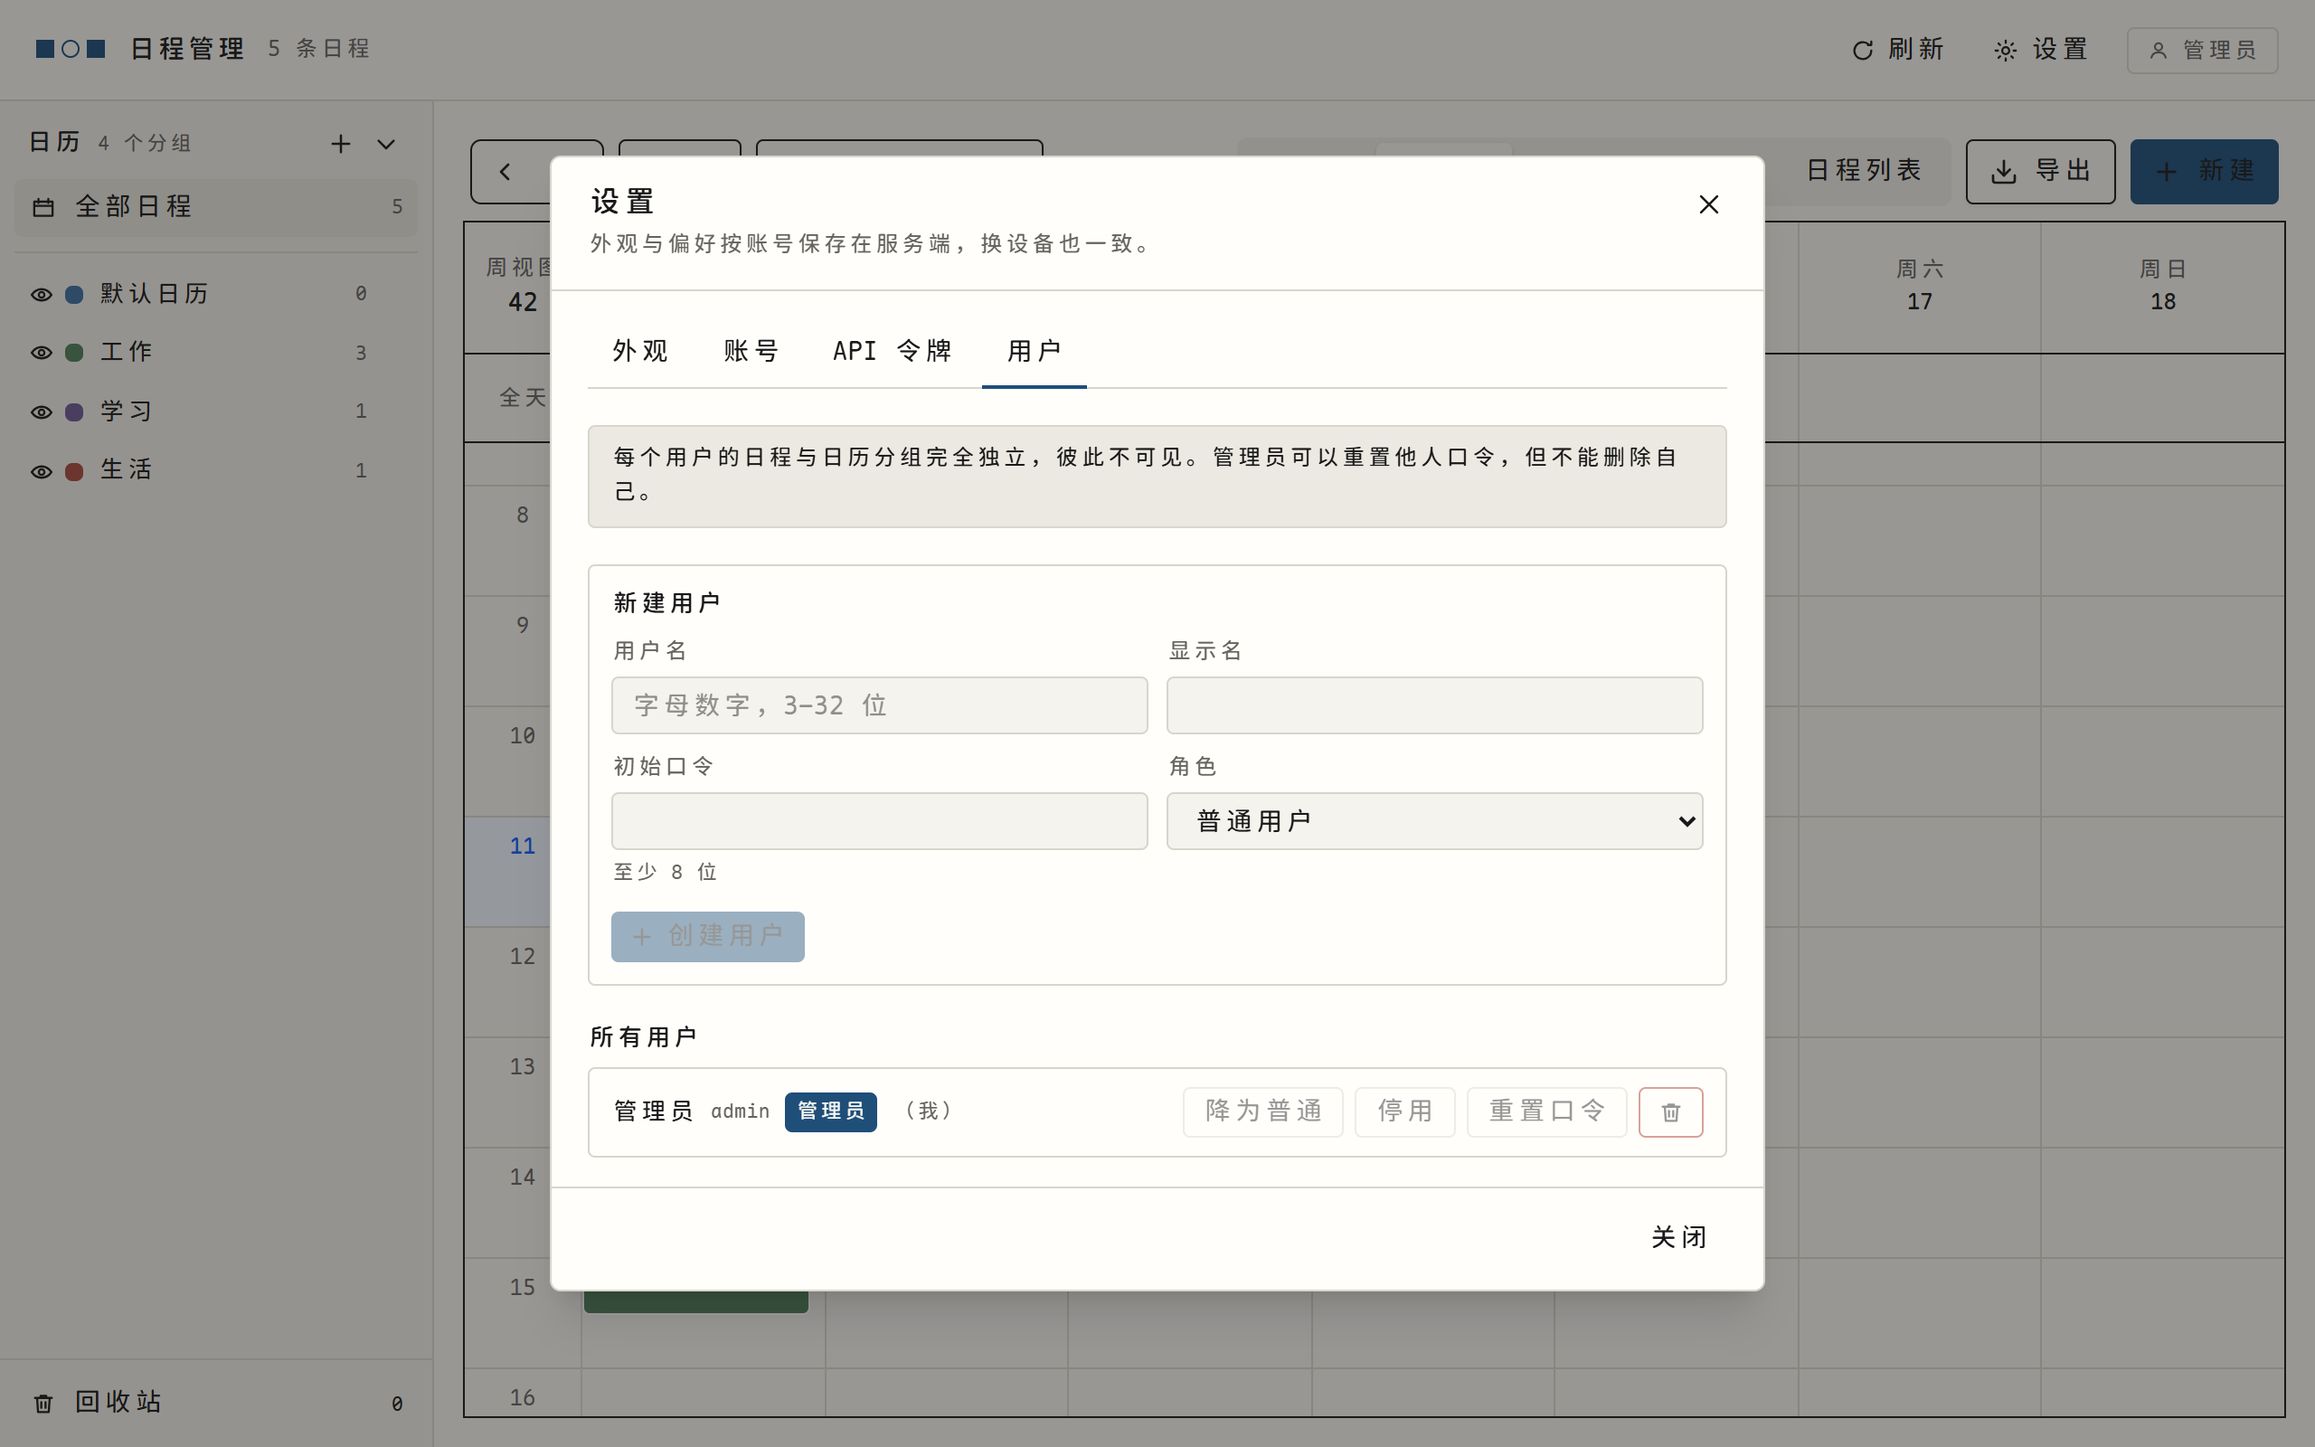
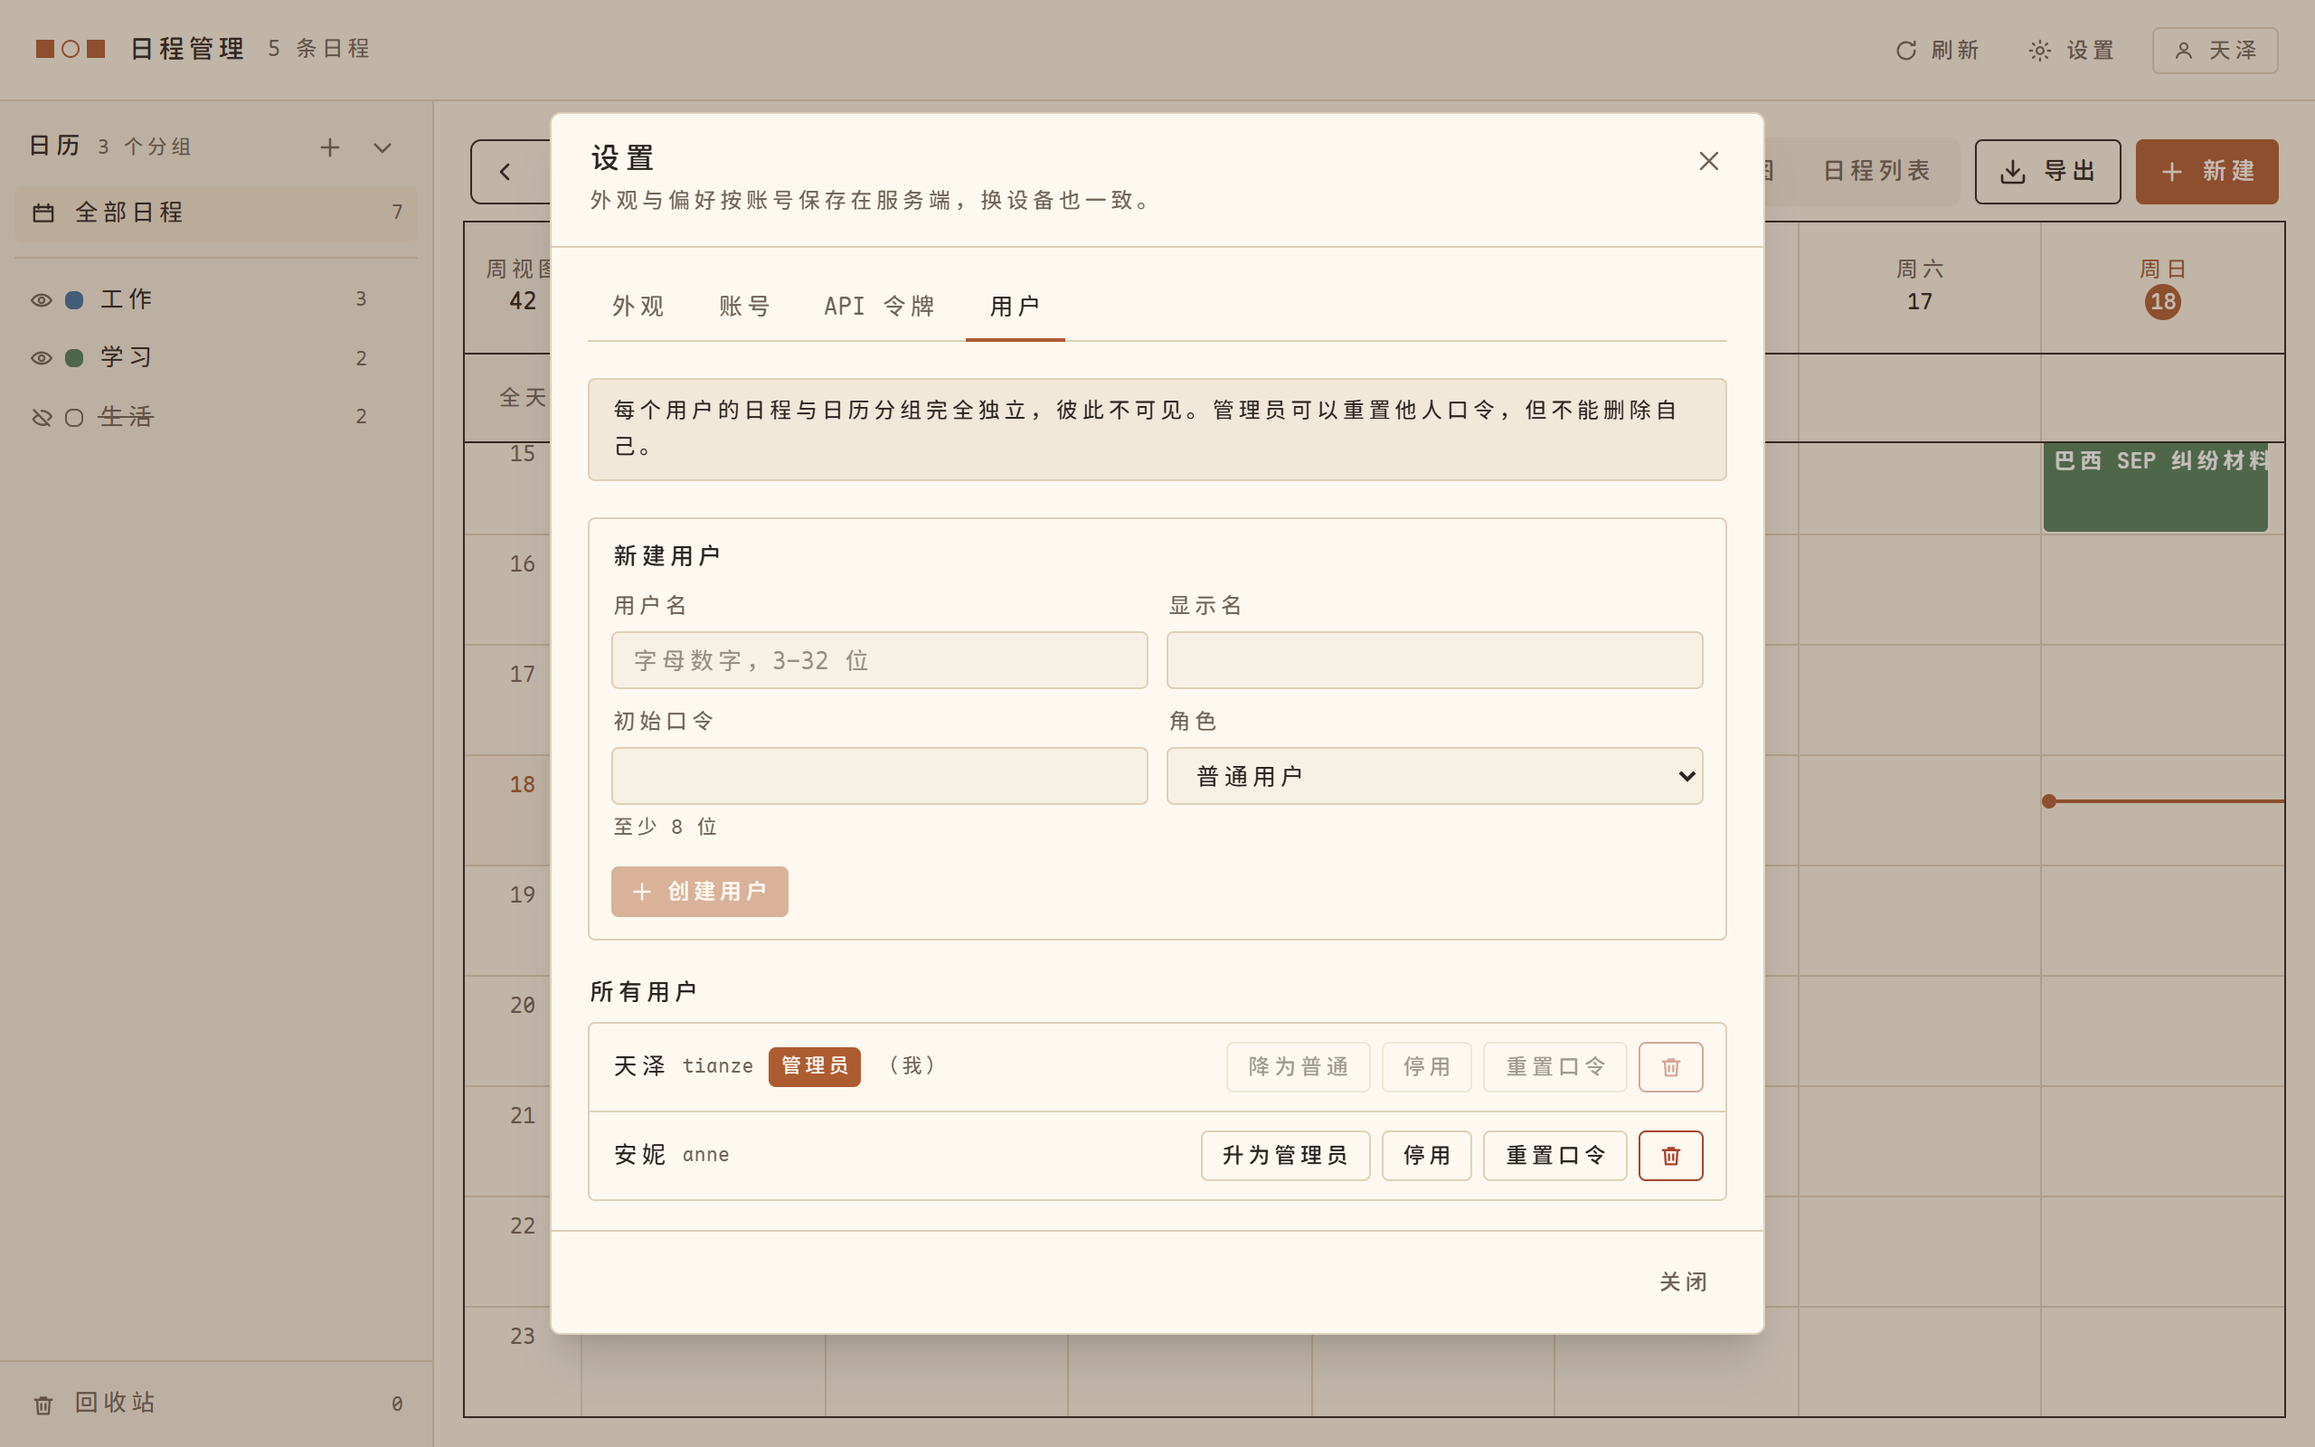
两套主题换成暖色：白日米黄纸，夜间灯下暖光
蓝调整体退掉，白天和夜里都用暖色，但两套的做法不一样——夜里不是白天的反相。

白日（#f7f1e5 + #ad5c30）
- 底色是米黄纸，不是纯白；正文是深暖褐 #2b2420，不是纯黑。纯黑配浅底的对比度
  超过 16:1，长读会有「字在跳」的感觉，压到 13.5:1 更稳。
- 强调色陶土橘 #ad5c30，和 favicon 同源。这一档是算出来的：更浅的 #b4653a
  配白字只有 4.13:1，按钮文字会发虚；#ad5c30 到 4.61:1，刚好过 AA。

夜间（#1a1614 + #d09258）
- 底色深暖褐而不是纯黑：纯黑与米白字的交界太硬，明暗切换时瞳孔要重新适应。
- 正文米白 #e6ddcf 而不是纯白。纯白小字在暗环境里会晕（halation），散光眼尤其明显，
  褪掉那层亮字反而更清楚。
- 强调色琥珀而不是白天的陶土橘：同一个橘压在暗底上又亮又闷，提亮+降饱和之后
  才像灯照在纸上的颜色。
- 次要文字用暖灰，不带蓝——冷灰在暖底上会显出脏。
- 加一层极淡的暖光（radial-gradient，alpha < 0.06），让大面积深褐不至于死板。

组件库的两处冷色
- 「今天」那列写死 bg-blue-50 / text-blue-600，改成主色混卡片底，随主题走。
- 非本月格子用的是 bg-[color-mix(in_oklch,...)]，而 oklch 在这条链路上会把色相
  算成 none（实测 oklch(0.939 0.017 none)），无彩灰夹在米色里看着发紫。
  按 class 子串覆盖，换成 srgb 混合。

其他
- 当前时刻指示线由 bg-red-500 改为主色：红色在暖色界面里像一条报错提示。
- 遮罩调暖调轻（日）、加深（夜）；夜间浮层比卡片亮一档，浮起来有层次。
- index.html 的 theme-color 与 manifest 的启动屏底色跟上新值。
- README 的六张截图全部重拍（旧图还是蓝调）。

diff --git a/src/index.css b/src/index.css
@@ -15,60 +15,101 @@
  * 圆角刻意保持小而统一，维持包豪斯的几何感，不做圆润化。
  */
 
-/* ── 白日：暖白纸感 + 近黑 + 克制的墨蓝 ─────────────── */
+/*
+ * ── 白日：米黄纸 + 陶土橘 ──────────────────────────────
+ *
+ * 底色不用纯白：纸的暖米色（#f7f1e5）在室内光下比白屏柔和，也不容易照出
+ * 屏幕上那层灰。正文是深暖褐（#2b2420）而非纯黑——纯黑与浅底的对比度会
+ * 到 16:1 以上，长读会有轻微的「字在跳」的感觉，压到 13.5:1 反而更稳。
+ *
+ * 强调色是陶土橘（#ad5c30），和图标同源。这一档是算着定的：
+ * 更浅的 #b4653a 配白字只有 4.13:1，按钮上的字会发虚；#ad5c30 到 4.61:1，
+ * 刚好过 AA，又不至于暗到发黑。
+ */
 :root,
 [data-theme='day'] {
-  --background: #f5f3ee;
-  --foreground: #191919;
-  --card: #fffefb;
-  --card-foreground: #191919;
-  --popover: #fffefb;
-  --popover-foreground: #191919;
-  --primary: #1f4e79;
-  --primary-foreground: #f8f7f3;
-  --secondary: #e8e5dd;
-  --secondary-foreground: #191919;
-  --muted: #ece9e2;
-  --muted-foreground: #67645e;
-  --accent: #e6e3da;
-  --accent-foreground: #191919;
-  --destructive: #a8321f;
-  --destructive-foreground: #fdf7f5;
-  --border: #d9d5cb;
-  --input: #d9d5cb;
-  --ring: #1f4e79;
-  --sidebar: #efece5;
-  --sidebar-foreground: #191919;
-  --overlay: rgba(25, 25, 25, 0.42);
+  --background: #f7f1e5;
+  --foreground: #2b2420;
+  --card: #fdf9f0;
+  --card-foreground: #2b2420;
+  --popover: #fdf9f0;
+  --popover-foreground: #2b2420;
+  --primary: #ad5c30;
+  --primary-foreground: #fff9f1;
+  --secondary: #ece2d2;
+  --secondary-foreground: #2b2420;
+  --muted: #f1e8da;
+  --muted-foreground: #6f6357;
+  --accent: #f0e4d2;
+  --accent-foreground: #2b2420;
+  --destructive: #a8432c;
+  --destructive-foreground: #fdf7f2;
+  --border: #ded0b9;
+  --input: #ded0b9;
+  --ring: #ad5c30;
+  --sidebar: #f2ebdd;
+  --sidebar-foreground: #2b2420;
+  --overlay: rgba(74, 52, 36, 0.32);
   --radius: 0.25rem;
 }
 
-/* ── 黑夜：低饱和深灰蓝 + 浅灰字 + 微蓝强调 ─────────── */
+/*
+ * ── 黑夜：灯下暖光 ────────────────────────────────────
+ *
+ * 这套是按「晚上关灯后看纸」的直觉做的，不是把白日配色反过来：
+ *
+ * 1. 底色是深暖褐（#1a1614），不是纯黑也不是冷灰。纯黑在 OLED 上与米白字的
+ *    交界太硬，明暗切换时瞳孔要重新适应；深褐把亮度抬了一点点，边缘就软了。
+ * 2. 正文是米白（#e6ddcf），不是纯白。纯白小字在暗环境里会「晕」（halation），
+ *    尤其散光眼；褪掉那层亮，字反而更清楚。对比 13.3:1，比白日略低，够读。
+ * 3. 强调色是琥珀（#d09258）而不是白天那个陶土橘。同一个橘在暗底上会显得
+ *    又亮又闷；提亮 + 降饱和之后，它更像灯照在纸上的颜色，不抢眼睛。
+ * 4. 次要文字用暖灰（#a2958a），不带蓝。冷灰在暖底上会显出脏。
+ *
+ * 四层叠起来，夜里看是「暖光下的纸」，而不是「蓝色屏幕调暗了」。
+ */
 [data-theme='night'],
 .dark {
-  --background: #1a1d21;
-  --foreground: #e3e5e9;
-  --card: #212529;
-  --card-foreground: #e3e5e9;
-  --popover: #212529;
-  --popover-foreground: #e3e5e9;
-  --primary: #7ba0c8;
-  --primary-foreground: #14171a;
-  --secondary: #2a2f36;
-  --secondary-foreground: #e3e5e9;
-  --muted: #262b31;
-  --muted-foreground: #9aa1ac;
-  --accent: #2e343b;
-  --accent-foreground: #e3e5e9;
-  --destructive: #c26b5f;
-  --destructive-foreground: #17191c;
-  --border: #333941;
-  --input: #333941;
-  --ring: #7ba0c8;
-  --sidebar: #1e2227;
-  --sidebar-foreground: #e3e5e9;
-  --overlay: rgba(6, 8, 10, 0.62);
+  --background: #1a1614;
+  --foreground: #e6ddcf;
+  --card: #221d1a;
+  --card-foreground: #e6ddcf;
+  --popover: #282119;
+  --popover-foreground: #e6ddcf;
+  --primary: #d09258;
+  --primary-foreground: #1a1512;
+  --secondary: #2b2521;
+  --secondary-foreground: #e6ddcf;
+  --muted: #251f1c;
+  --muted-foreground: #a2958a;
+  --accent: #2f2823;
+  --accent-foreground: #e6ddcf;
+  --destructive: #c4735f;
+  --destructive-foreground: #17120f;
+  --border: #362e28;
+  --input: #362e28;
+  --ring: #d09258;
+  --sidebar: #1e1a17;
+  --sidebar-foreground: #e6ddcf;
+  --overlay: rgba(10, 8, 7, 0.72);
   --radius: 0.25rem;
+}
+
+/*
+ * 夜间的一层暖光。
+ *
+ * 只在夜间加，因为只有夜里存在「台灯从某个方向照过来」这个物理参照。
+ * 用 body 的多层背景而不是伪元素盖在内容上：伪元素要么被卡片挡住，要么
+ * 得靠 z-index 压到内容上面，滚动时的重绘很不划算。
+ * alpha 压到 0.05 以下——它的作用是让大面积的深褐不至于死板，不是让你看见光斑。
+ */
+[data-theme='night'] body,
+.dark body {
+  background-image:
+    radial-gradient(120% 80% at 76% -12%, rgba(206, 132, 85, 0.055), transparent 60%),
+    radial-gradient(90% 60% at -8% 106%, rgba(180, 101, 58, 0.03), transparent 55%);
+  background-attachment: fixed;
+  background-repeat: no-repeat;
 }
 
 @theme inline {
@@ -211,6 +252,45 @@ h4 {
 [data-testid='calendar-body'] [data-drop-target='true'] {
   outline: 2px dashed var(--ring);
   outline-offset: -2px;
+}
+
+/*
+ * 组件库里剩下的几处冷色。
+ *
+ * 「今天」那一列写死了 bg-blue-50 + text-blue-600，是整个暖色界面里唯一一块
+ * 蓝色（它铺满整列，很显眼）。这里不改成写死的橘，而是用主色混进卡片底：
+ * 换主题时它跟着主色走，白日是淡陶土，夜里是淡琥珀。
+ *
+ * bg-blue-500 / text-blue-500 / bg-blue-100 目前没出现在渲染结果里，但月视图、
+ * 日程列表、多日历事件着色这几个分支会用到它们，一并覆盖，免得换个视图又冒出冷色。
+ */
+[data-theme] .bg-blue-50 {
+  background-color: color-mix(in srgb, var(--primary) 9%, var(--card));
+}
+[data-theme] .bg-blue-100 {
+  background-color: color-mix(in srgb, var(--primary) 15%, var(--card));
+}
+[data-theme] .bg-blue-500 {
+  background-color: var(--primary);
+}
+[data-theme] .text-blue-500,
+[data-theme] .text-blue-600 {
+  color: var(--primary);
+}
+
+/*
+ * 非本月的格子（月视图里 9 月的 28–30、11 月的 1–8 号）。
+ *
+ * 组件用 `bg-[color-mix(in_oklch,var(--background),var(--foreground)_3%)]` 生成，
+ * 而 oklch 在这条链路上会把色相算成 none：实测计算值是
+ * oklch(0.939 0.017 none)。无彩灰夹在米色里，视觉上会被衬成淡紫——在原先的
+ * 灰蓝主题里看不出来，换成暖色之后就很扎眼。
+ *
+ * 这里按 class 子串匹配覆盖掉它（`in_oklch` 是这条链路的独有标记），
+ * 改成 srgb 混合，色相是确定的暖色。3% 的比例与组件原意一致，只是不再丢色相。
+ */
+[data-theme] [class*='in_oklch'] {
+  background-color: color-mix(in srgb, var(--foreground) 3%, var(--background));
 }
 
 /* ───────────────────────── 手机端 ─────────────────────────

diff --git a/src/components/NowIndicator.tsx b/src/components/NowIndicator.tsx
@@ -1,5 +1,5 @@
 /**
- * 当前时刻指示线（那条红线）。
+ * 当前时刻指示线（那条横线）。
  *
  * 为什么要自己接管，而不是用组件库自带的：
  *
@@ -65,7 +65,9 @@ function useNowTick(intervalMs = TICK_MS): number {
 }
 
 /**
- * 与组件库默认红线完全相同的类名与结构 —— 只换「谁来驱动位置」，不改视觉。
+ * 与组件库默认线条相同的类名与结构 —— 只换「谁来驱动位置」，不改视觉。
+ * 颜色走 --primary：原先是写死的 bg-red-500，在暖色界面里像一条报错提示；
+ * 换成主色后，「此刻」和「今天」的高亮同源，日夜两套主题都对得上。
  * 定位属性（top / left）由调用方通过 style 传入。
  */
 function Line({
@@ -85,8 +87,8 @@ function Line({
         data-testid="current-time-indicator"
         style={style}
       >
-        <div className="size-2 shrink-0 rounded-full bg-red-500" data-testid="current-time-dot" />
-        <div className="w-0.5 flex-1 bg-red-500" />
+        <div className="size-2 shrink-0 rounded-full bg-primary" data-testid="current-time-dot" />
+        <div className="w-0.5 flex-1 bg-primary" />
       </div>
     );
   }
@@ -97,8 +99,8 @@ function Line({
       data-testid="current-time-indicator"
       style={style}
     >
-      <div className="size-2 shrink-0 rounded-full bg-red-500" data-testid="current-time-dot" />
-      <div className="h-0.5 flex-1 bg-red-500" />
+      <div className="size-2 shrink-0 rounded-full bg-primary" data-testid="current-time-dot" />
+      <div className="h-0.5 flex-1 bg-primary" />
     </div>
   );
 }

diff --git a/src/theme.ts b/src/theme.ts
@@ -20,15 +20,15 @@ export interface Palette {
 export const PALETTES: Record<ThemeKey, Palette> = {
   day: {
     label: '白日',
-    note: '暖白纸感底 + 近黑字 + 克制的墨蓝，白天室内光线下最清晰',
+    note: '米黄纸底 + 陶土橘 + 深褐字，像在纸上写字，室内光下最稳',
     dark: false,
-    swatch: ['#f5f3ee', '#1f4e79', '#191919'],
+    swatch: ['#f7f1e5', '#ad5c30', '#2b2420'],
   },
   night: {
     label: '黑夜',
-    note: '低饱和深灰蓝 + 浅灰字，夜间长时间看不刺眼',
+    note: '深褐底 + 琥珀强调 + 米白字，关灯后像暖光下的纸，不刺眼',
     dark: true,
-    swatch: ['#1a1d21', '#7ba0c8', '#e3e5e9'],
+    swatch: ['#1a1614', '#d09258', '#e6ddcf'],
   },
 };
 

diff --git a/index.html b/index.html
@@ -14,8 +14,8 @@
     <link rel="manifest" href="/manifest.webmanifest" />
 
     <!-- 移动端浏览器地址栏配色（与 index.css 的 --background 对齐） -->
-    <meta name="theme-color" content="#1a1d21" media="(prefers-color-scheme: dark)" />
-    <meta name="theme-color" content="#f5f3ee" media="(prefers-color-scheme: light)" />
+    <meta name="theme-color" content="#1a1614" media="(prefers-color-scheme: dark)" />
+    <meta name="theme-color" content="#f7f1e5" media="(prefers-color-scheme: light)" />
     <meta name="apple-mobile-web-app-capable" content="yes" />
     <meta name="apple-mobile-web-app-title" content="日程" />
     <meta name="apple-mobile-web-app-status-bar-style" content="black-translucent" />

diff --git a/README.md b/README.md
@@ -55,7 +55,7 @@
 | 回收站 | 删除默认进回收站，可逐条恢复、彻底删除或一键清空 |
 | 多用户 | 口令登录（scrypt 哈希 + HttpOnly 会话）、管理员建号 / 停用 / 重置口令 / 升降角色 |
 | API 令牌 | 每用户可签发多个长期令牌给 AI Agent 用，明文只显示一次，可随时吊销 |
-| 外观 | 一昼一夜两套配色，切换即时生效并持久化到服务端 |
+| 外观 | 一昼一夜两套暖色配色（米黄纸 / 灯下暖光），切换即时生效并持久化到服务端 |
 | 移动端 | 手机上侧栏收成抽屉、日历默认进日视图；适配刘海与底部安全区；有独立的 favicon 与 iOS 主屏图标 |
 | AI 协作 | `dry_run` 预演、`Idempotency-Key` 防重、机器可读错误码、批量操作与原子回滚 |
 
